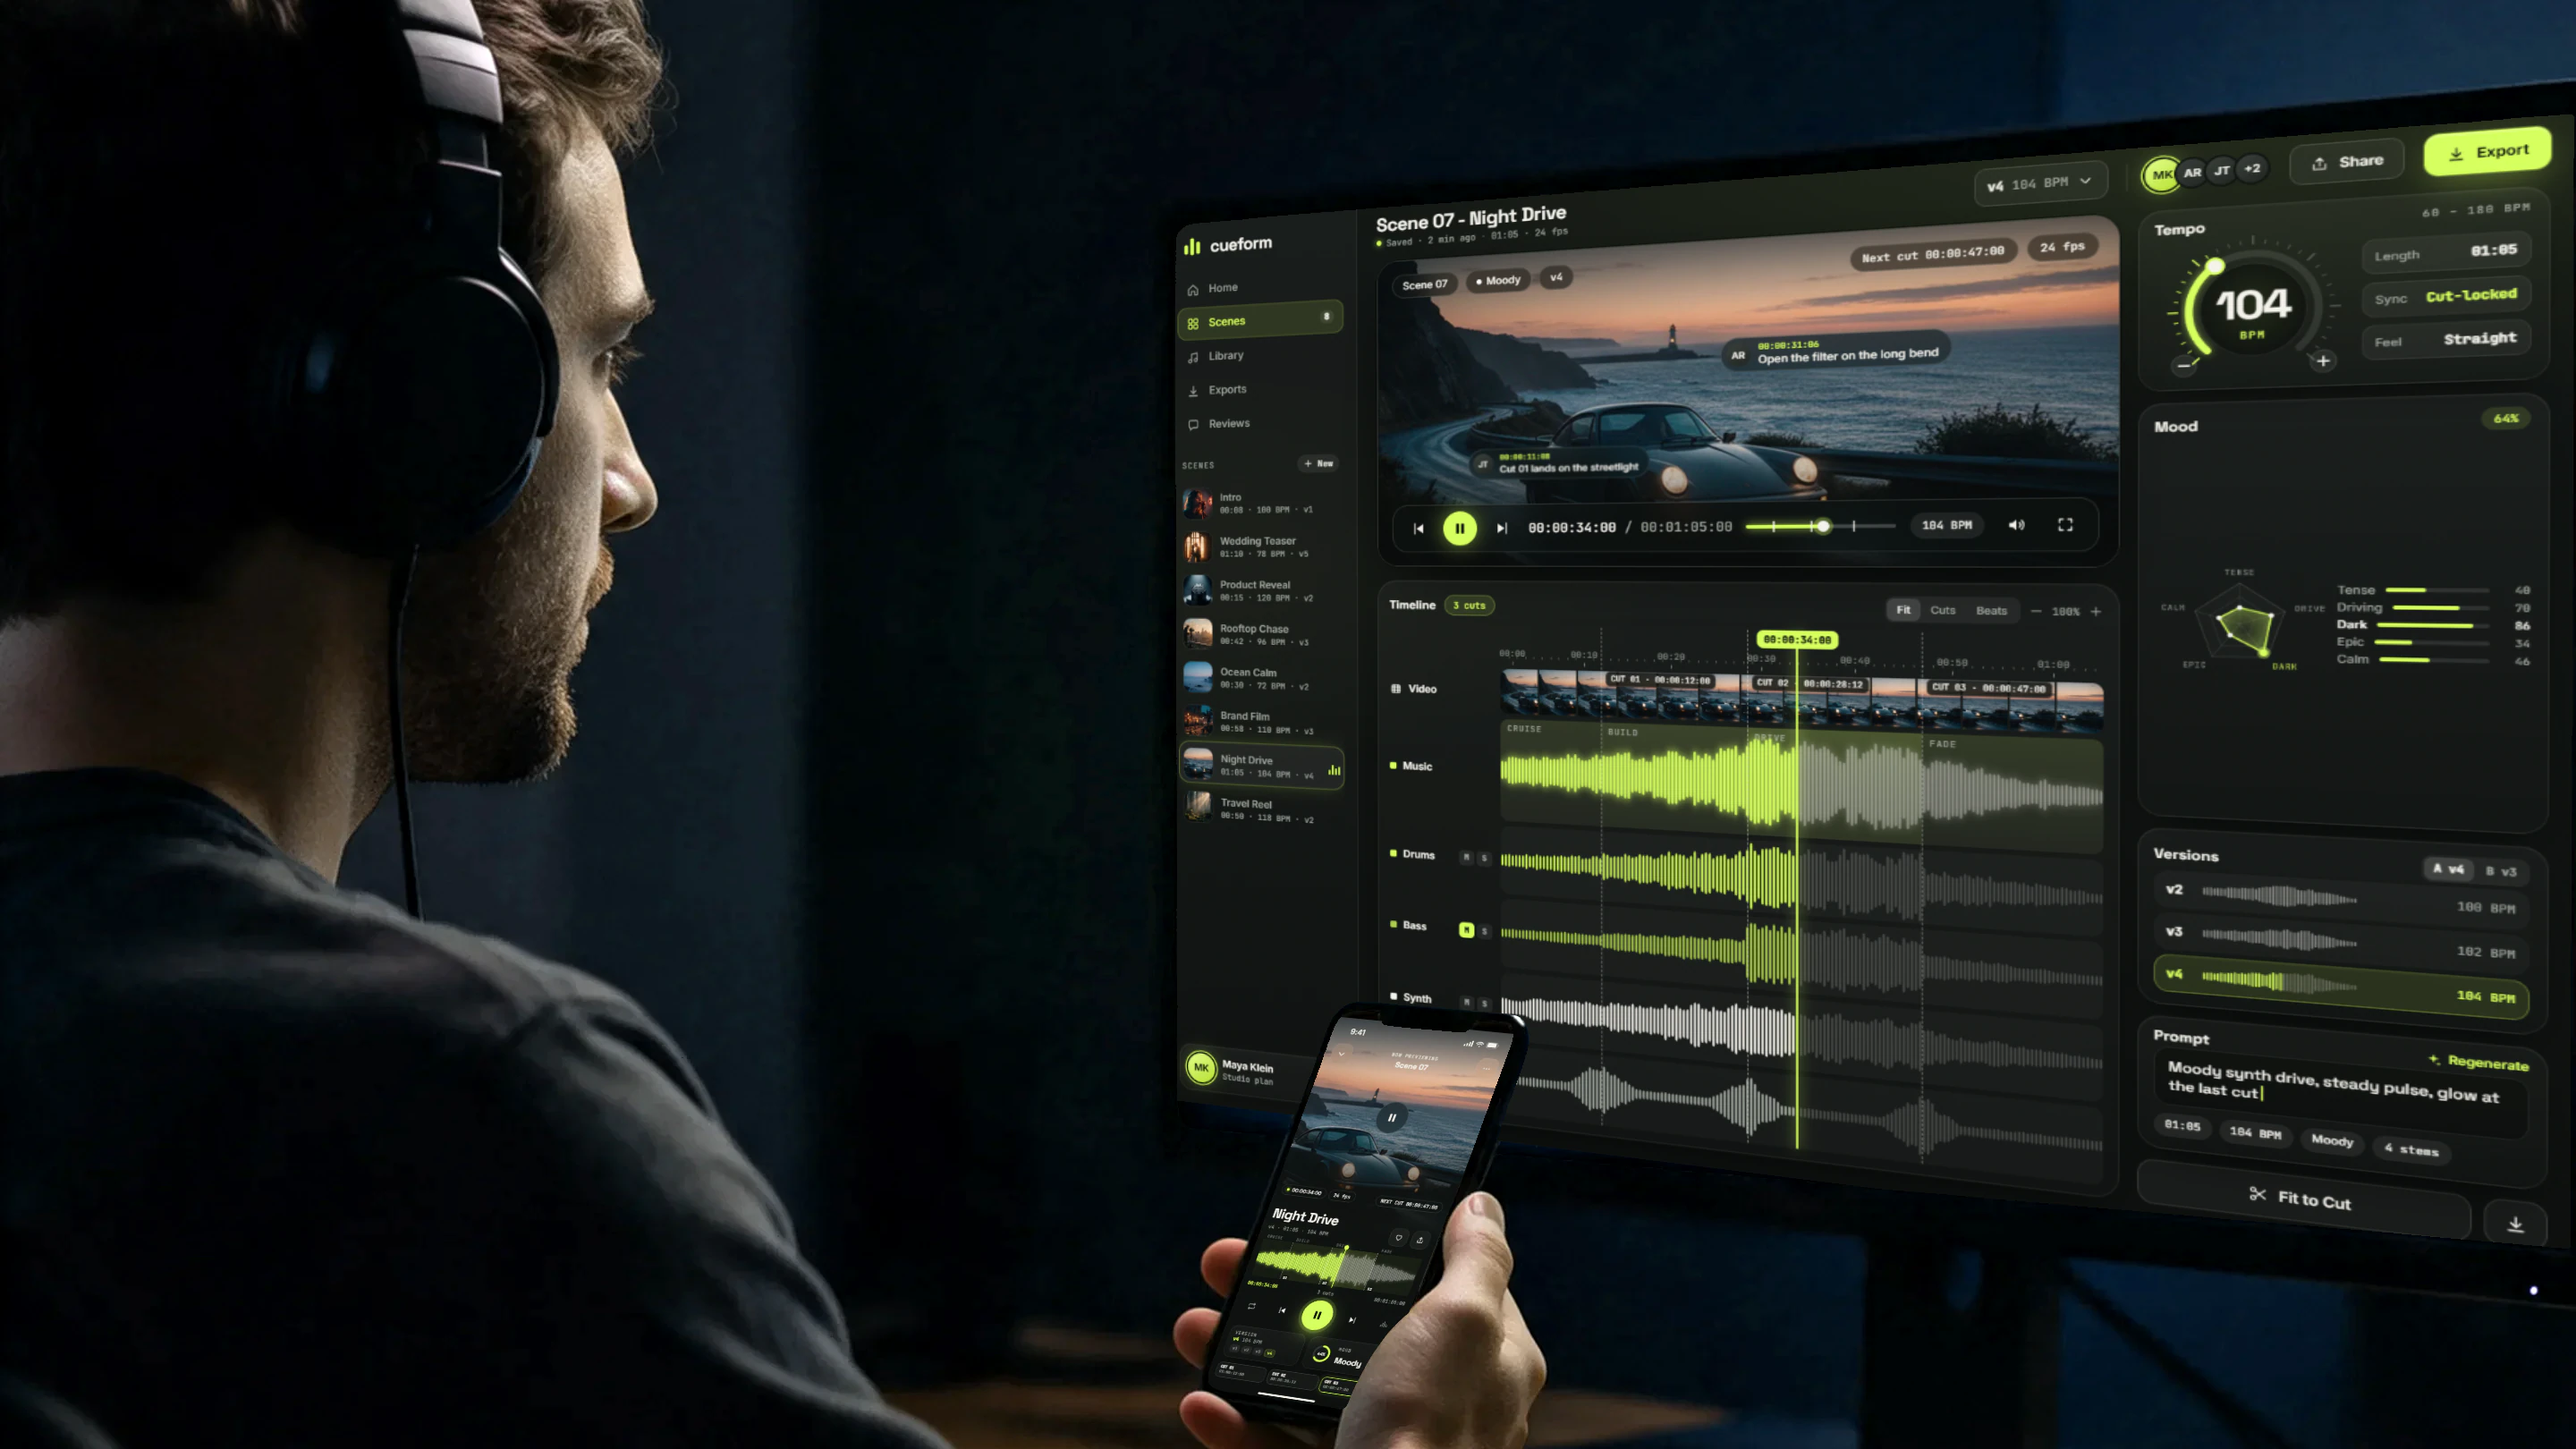
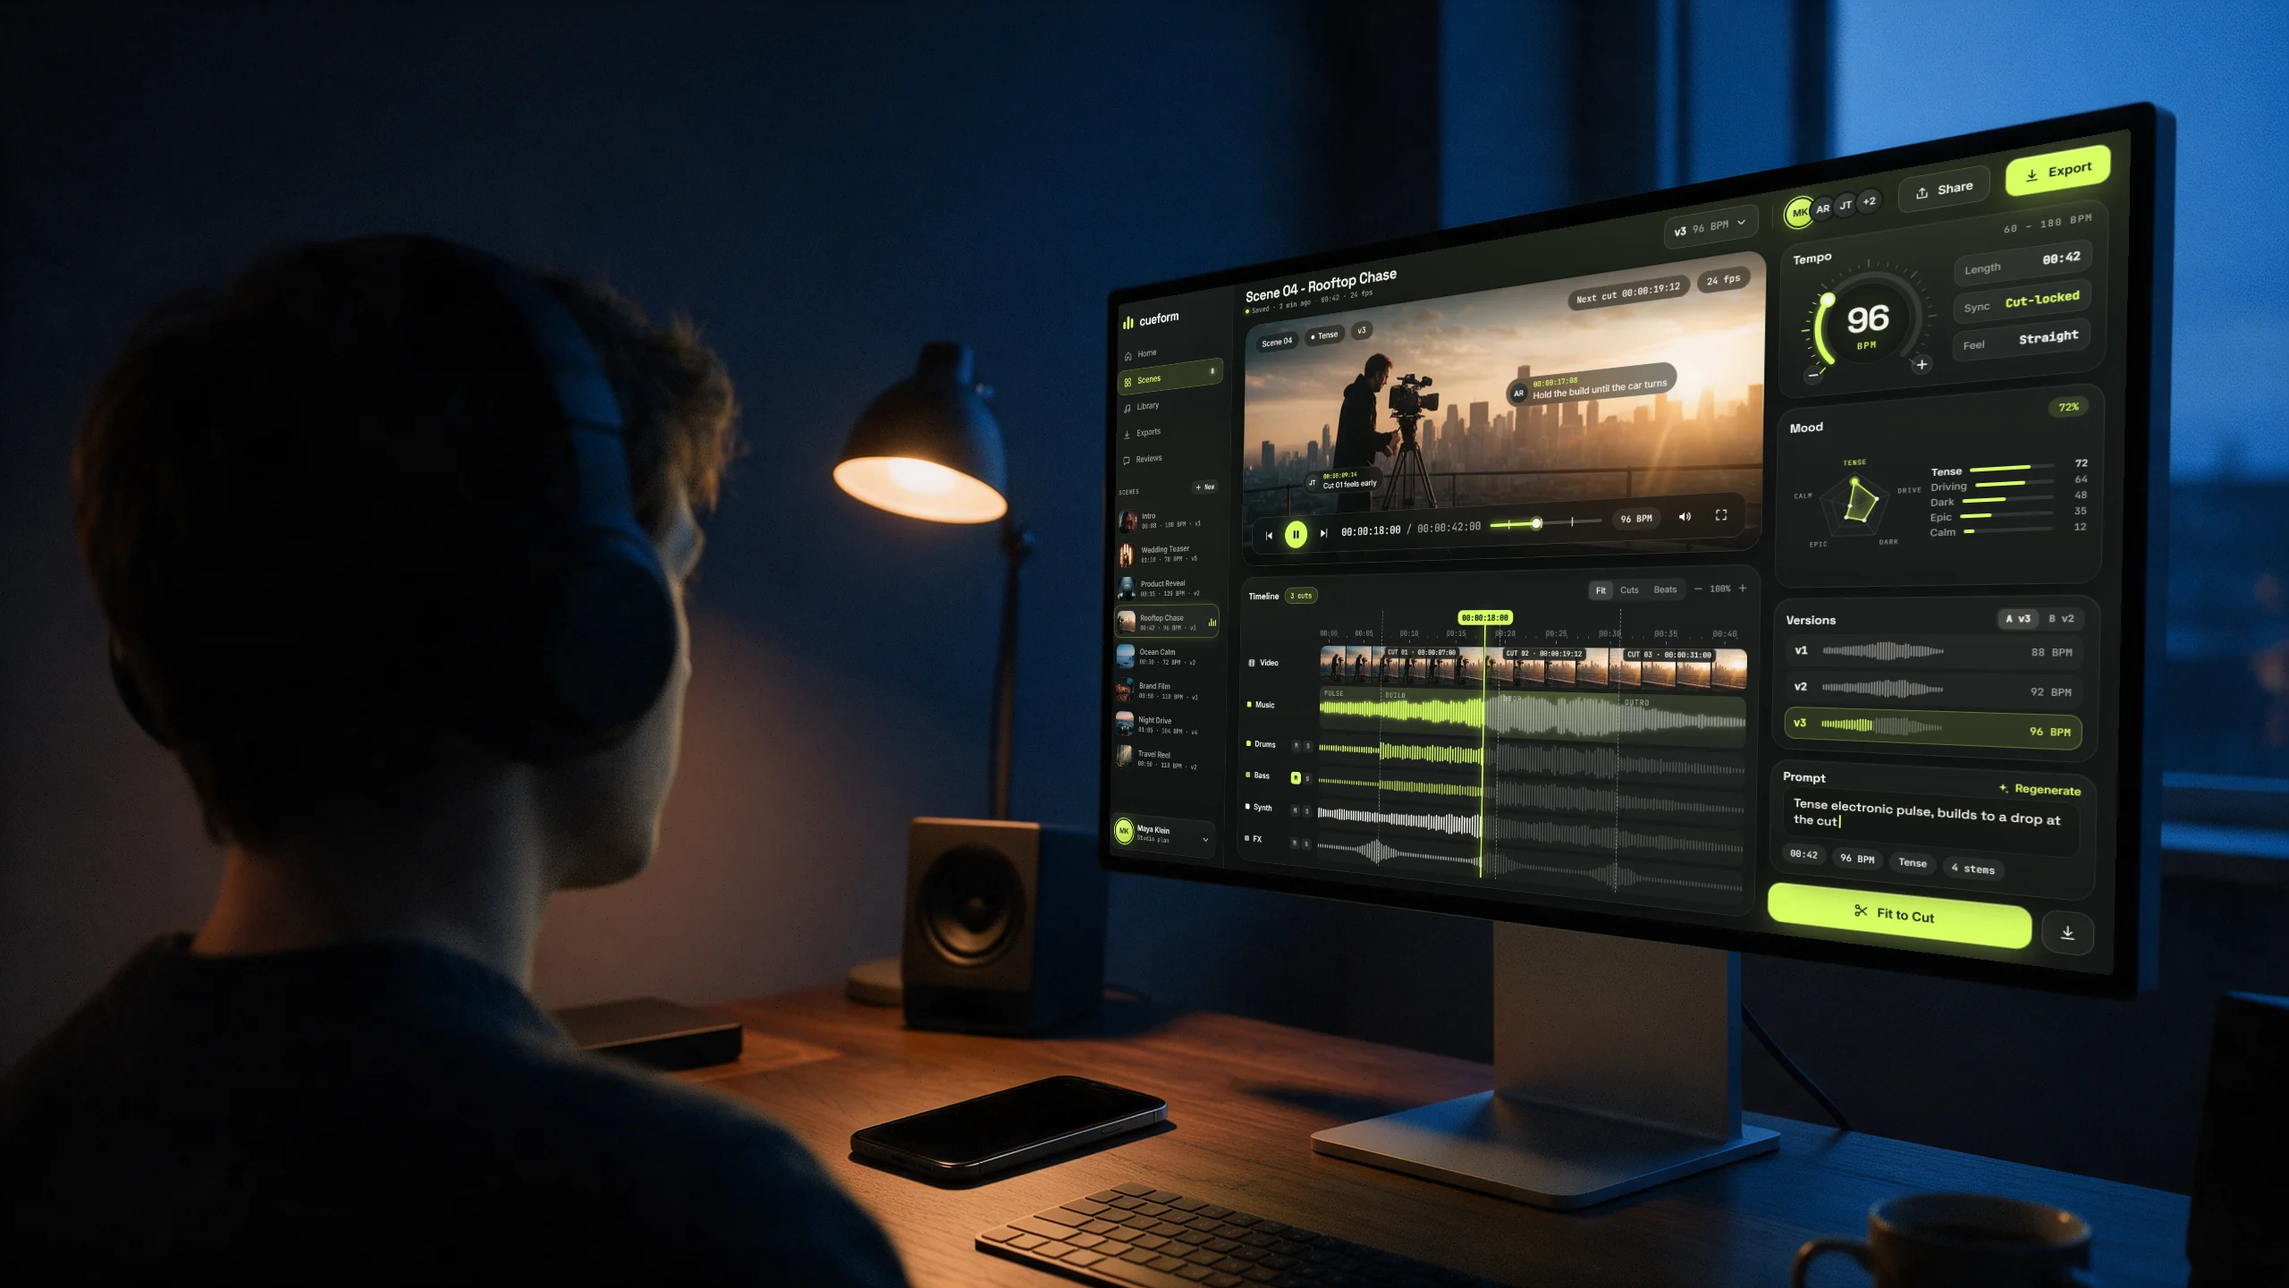
Cueform kapağı yenilendi; telefonda kapak odağı proje bazında ayarlanabilir
- Cueform: editör ve monitörlü yeni stüdyo kapağı (başlık koyu alanda, özet okunur)
- coverFocus: telefonda kapağın görünen dilimi (0 sol, 50 orta, 100 sağ); panelde kaydırıcı ve önizleme
- Evena ve Aloft telefonda kişiyi, oyunlar logo kartının solunu gösteriyor

diff --git a/src/admin/pages/ProjectEditor.tsx b/src/admin/pages/ProjectEditor.tsx
@@ -261,7 +261,7 @@ function GalleryEditor({ blocks, onChange }: { blocks: GalleryBlock[]; onChange:
 }
 
 function Editor({ original, isNew }: { original: Project; isNew: boolean }) {
-  const { content, save, saving, pendingFor, notify } = useAdmin();
+  const { content, save, saving, pendingFor, notify, src } = useAdmin();
   const { draft, setDraft, dirty, reset } = useDraft(original);
   const [confirmDelete, setConfirmDelete] = useState(false);
   const [showPreview, setShowPreview] = useState(false);
@@ -345,6 +345,33 @@ function Editor({ original, isNew }: { original: Project; isNew: boolean }) {
               poster={draft.cover}
               onChange={(v) => set('coverVideo', v || undefined)}
             />
+            <Field
+              label="Telefonda kapağın odağı"
+              hint="Telefonda kapağın yalnızca dikey bir dilimi görünür. Kaydırıcıyla görselin hangi bölümünün görüneceğini seçin: solda sol kenar, ortada merkez, sağda sağ kenar."
+            >
+              <div className="flex items-center gap-4">
+                {draft.cover && (
+                  <div className="relative h-16 w-28 shrink-0 overflow-hidden rounded-lg bg-black/5">
+                    <img src={src(draft.cover)} alt="" className="h-full w-full object-cover" />
+                    <span
+                      className="absolute inset-y-0 w-[24%] -translate-x-1/2 rounded-sm ring-2 ring-white shadow-[0_0_0_999px_rgba(0,0,0,.45)]"
+                      style={{ left: `${12 + (draft.coverFocus ?? 50) * 0.76}%` }}
+                    />
+                  </div>
+                )}
+                <input
+                  type="range"
+                  min={0}
+                  max={100}
+                  step={1}
+                  aria-label="Telefonda kapağın odağı"
+                  value={draft.coverFocus ?? 50}
+                  onChange={(e) => set('coverFocus', Number(e.target.value) === 50 ? undefined : Number(e.target.value))}
+                  className="w-full accent-ink"
+                />
+                <span className="w-10 shrink-0 text-right text-[13px] tabular-nums text-ink/60">%{draft.coverFocus ?? 50}</span>
+              </div>
+            </Field>
             <BiField label="Kısa özet" long hint="Proje sayfasının kapağında, başlığın yanında görünür. 1-2 cümle." value={draft.summary} onChange={(v) => set('summary', v)} />
           </Card>
 

diff --git a/src/pages/Project.tsx b/src/pages/Project.tsx
@@ -48,8 +48,9 @@ function Cover({ project }: { project: ProjectType }) {
           alt={project.title}
           onLoad={coverReady}
           onError={coverReady}
-          // Telefonda kapağın sol tarafı görünür: oyun kapaklarında ortadaki logo kartı başlığın altında kalmaz
-          className="absolute inset-0 h-full w-full object-cover object-[28%_50%] md:object-center"
+          // Telefonda kapağın görünen bölümü projeye göre ayarlanır (coverFocus); geniş ekranda ortalanır
+          style={{ ['--fx' as string]: `${project.coverFocus ?? 50}%` }}
+          className="absolute inset-0 h-full w-full object-cover [object-position:var(--fx)_50%] md:[object-position:50%_50%]"
         />
       )}
       {/* Kapak videosu görselin üstünde oynar; geçiş animasyonu görsel üzerinden yapıldığı için görsel altta kalır */}

diff --git a/src/sections/Hero.tsx b/src/sections/Hero.tsx
@@ -111,7 +111,7 @@ export default function Hero({ ready }: { ready: boolean }) {
       >
         {featured.map((p, i) => (
           <div key={p.slug} ref={(el) => (slidesRef.current[i] = el)} className="absolute inset-0">
-            {p.cover && <img src={p.cover} alt={p.title} draggable={false} className="h-full w-full scale-105 object-cover object-[28%_50%] md:object-center" />}
+            {p.cover && <img src={p.cover} alt={p.title} draggable={false} style={{ ['--fx' as string]: `${p.coverFocus ?? 50}%` }} className="h-full w-full scale-105 object-cover [object-position:var(--fx)_50%] md:[object-position:50%_50%]" />}
             {p.coverVideo && (
               <AutoVideo
                 src={p.coverVideo}

diff --git a/src/content.ts b/src/content.ts
@@ -47,6 +47,8 @@ export type Project = {
   // İsteğe bağlı kapak videosu (yüklenen dosya /videos/... ya da doğrudan .mp4/.webm bağlantısı).
   // Varsa kapak görselinin yerine oynar; görsel, video yüklenene kadar ve geçiş animasyonunda kullanılır.
   coverVideo?: string;
+  // Dar ekranda (telefon) kapağın yatayda hangi bölümü görünür: 0 sol kenar, 50 orta (varsayılan), 100 sağ kenar
+  coverFocus?: number;
   summary: Text;
   client: string;
   role: Text;
